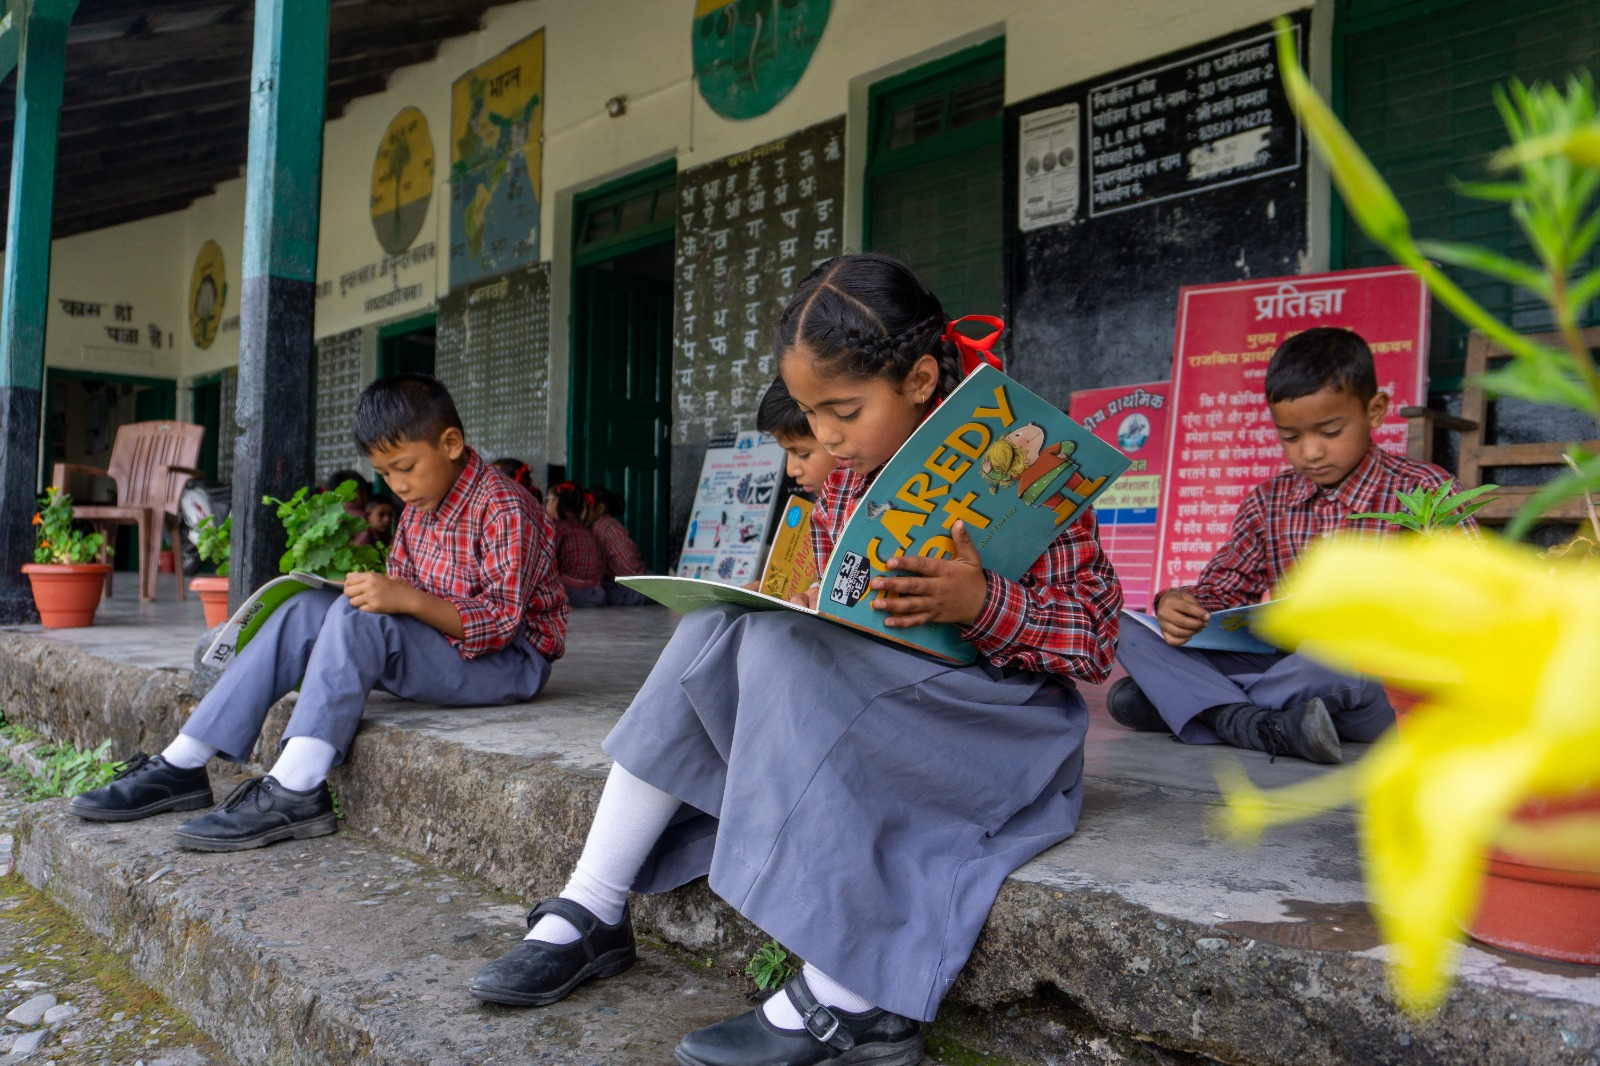
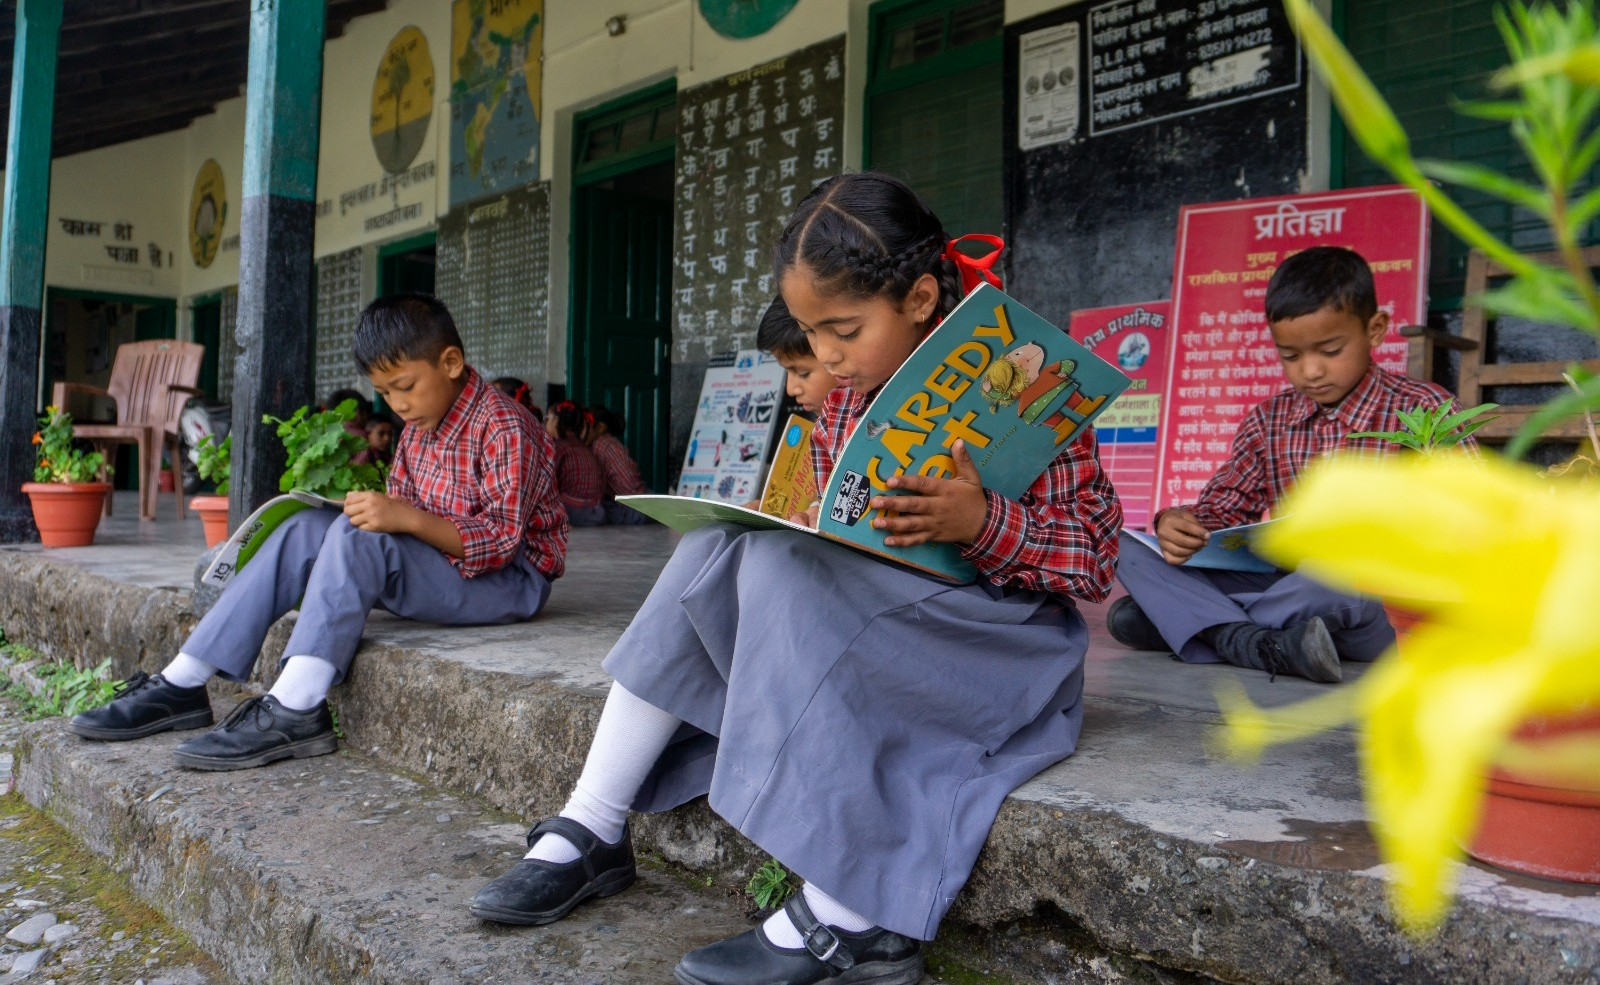
resize the button height

diff --git a/applications/home/app/styles/app.scss b/applications/home/app/styles/app.scss
@@ -64,13 +64,12 @@ width: 100vw;
 }
 
 .about-btn {
+	background-color: #FFFFFF;
 	width: 80%;
-	background: #ffffff;
+	height: 70px;
 	border: none;
-	border-radius: 18px;
+	border-radius: 10px;
 	padding: 14px 20px;
-
-	/* Elegant static shadow */
 	box-shadow:
 		0 4px 10px rgba(0, 0, 0, 0.08),
 		0 10px 25px rgba(0, 0, 0, 0.10),
@@ -89,7 +88,7 @@ width: 100vw;
 
 .mobile-banner-heading {
 	color: #fff;
-	font-size: 20px;
+	font-size: 21px;
 	font-weight: 700;
 
 	/* Strong shadow for visibility */
@@ -136,7 +135,7 @@ width: 100vw;
 
 /* Default (mobile first) */
 .logo-img {
-	height: 150px;
+	height: 130px;
 	width: auto;
 }
 
